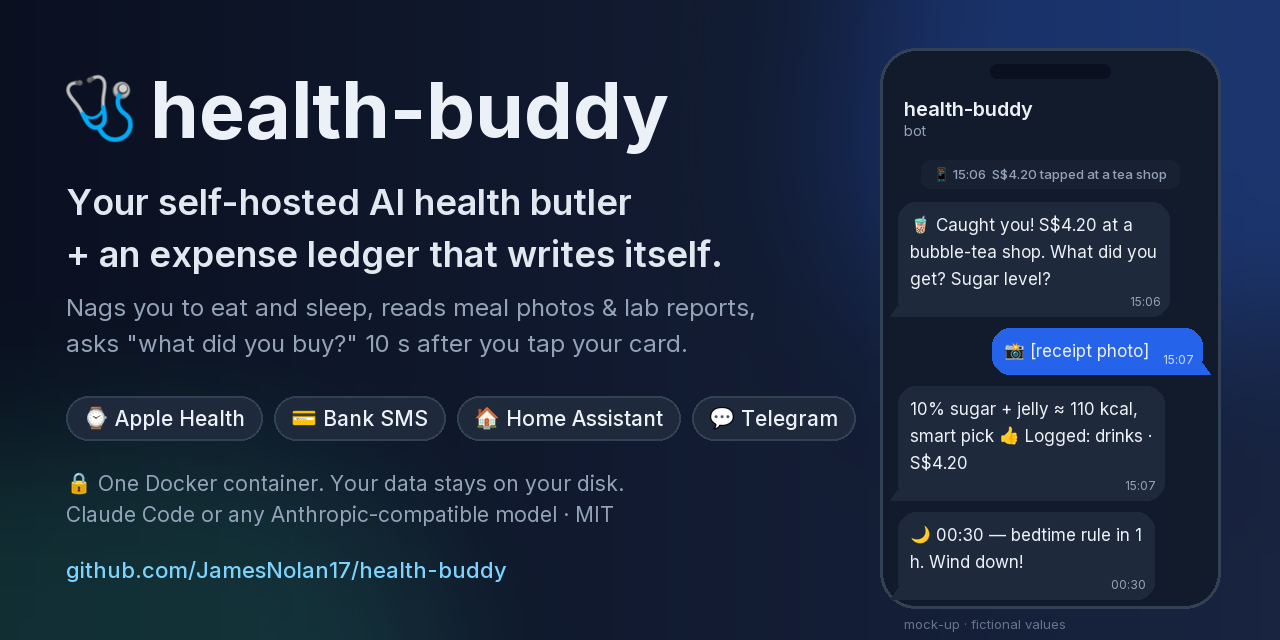
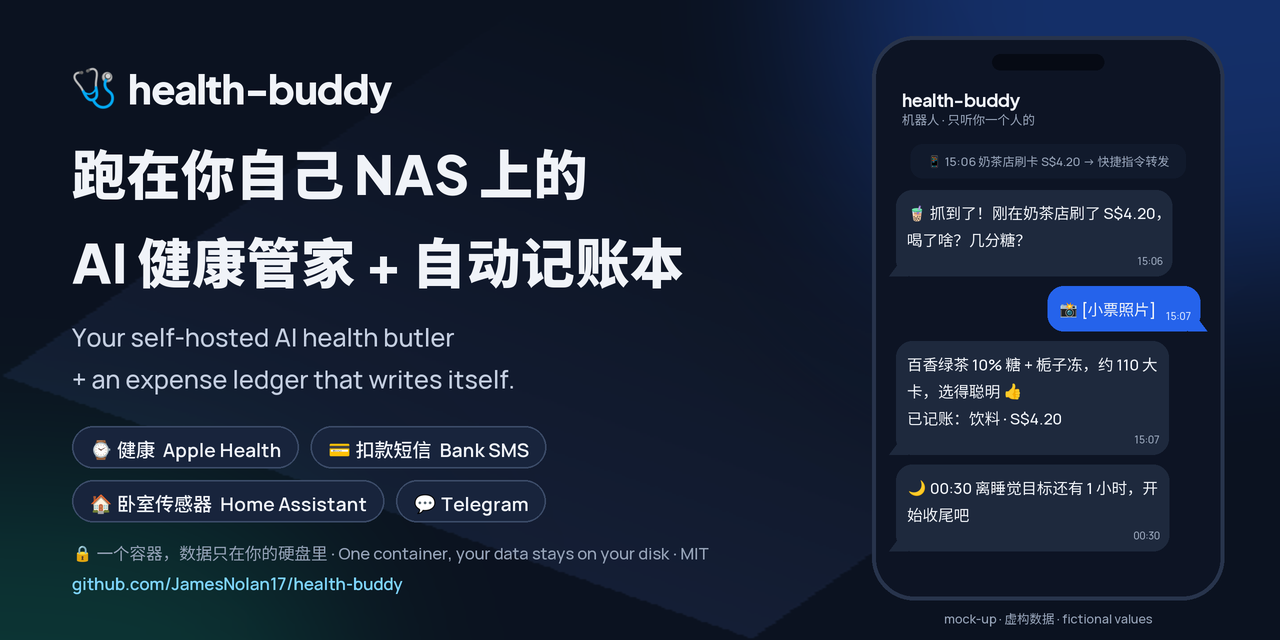
Redo visual assets (bilingual, better fonts); replace masked numbers with fictional values
- docs/social-preview.png: bilingual (Chinese headline + English line, bilingual
  keyword chips, Chinese phone mock), Noto Sans SC + Plus Jakarta Sans + Manrope,
  rendered at 2x and downscaled; labelled mock-up / fictional values
- docs/demo.zh.gif + docs/demo.en.gif replace docs/demo.gif; first frame already
  shows the SMS notification; READMEs point to the matching language
- docs/ASSETS.md lists fonts, emoji source and licenses (no font files in repo)
- README.md / README.en.md: every masked health/money/time value (6█, 20██-09,
  S██ …) replaced with a plausible fictional number; secrets stay placeholders

diff --git a/README.en.md b/README.en.md
@@ -15,7 +15,7 @@ Your data stays on your own disk, and it only listens to you.
 ![Telegram](https://img.shields.io/badge/chat-Telegram-26A5E4?logo=telegram&logoColor=white)
 ![Agent](https://img.shields.io/badge/agent-Claude%20Code%20%7C%20Anthropic--compatible%20models-111)
 
-<img src="docs/demo.gif" width="440" alt="Mock-up animation: 8 seconds after a card tap the bot asks what you bought; you send a receipt photo and it logs the calories and the expense">
+<img src="docs/demo.en.gif" width="440" alt="Mock-up animation: 8 seconds after a card tap the bot asks what you bought; you send a receipt photo and it logs the calories and the expense">
 
 <sub>Mock-up animation, not a real screenshot. Amounts and calories are fictional.</sub>
 
@@ -42,7 +42,7 @@ Under the hood it is **Claude Code (or any CLI agent) + a ~200-line, zero-depend
 | 🧋 15:06 | Card charged S$4.20 → within 10 s: "4.20 at a tea shop — what did you get? Sugar level?" |
 | 🤒 one day | "Resting HR +9 for two days and wrist temp is up — you may be getting sick. Sleep early tonight." |
 | 🌙 23:00 | "One hour to your bedtime goal." Ignore it? 23:30, 00:00 … until you say good night |
-| 📅 1st of month | "Last month: food S$5██, █ bubble teas S$3█, 3 fewer deliveries 👍" |
+| 📅 1st of month | "Last month: food S$560, 9 bubble teas S$38, 3 fewer deliveries 👍" |
 
 > These are the default schedule (`schedules.json`); one sentence in chat changes it.
 
@@ -165,7 +165,7 @@ First make the inbox reachable from your phone: set `INBOX_BIND` in `.env` to th
 - **Everything lives in `/data`** — back up one folder; move between an x86 NAS and an ARM VPS by copying it
 
 <details>
-<summary><b>📸 Seven real stories from the author's own health-buddy (numbers masked, translated — click to expand)</b></summary>
+<summary><b>📸 Seven real stories from the author's own health-buddy (numbers replaced with fictional values, translated — click to expand)</b></summary>
 
 **① Zero to working, guided by screenshots**
 
@@ -180,7 +180,7 @@ sequenceDiagram
     U->>H: [screenshot: URL filled in]
     H-->>U: ✅ URL is correct. Next the secret — hide the keyboard before the screenshot 😉
     U->>H: Uploading everything since I was born… 2%
-    H-->>U: 📬 ██0k records back to 20██. Building your personal baseline
+    H-->>U: 📬 480k records back to 2019. Building your personal baseline
 ```
 
 **② One lunch: nudge → photo → estimate → auto-bookkeeping**
@@ -197,7 +197,7 @@ sequenceDiagram
     H-->>U: 🍗 ≈600 kcal, 58 g protein — peel the charred skin to save 100
     U->>H: Ate 2/3 of the rice, one papadum left
     H-->>U: 📊 ≈1300 kcal this meal, 600 left for dinner
-    B->>H: A transaction of SGD ██.██ … at ████
+    B->>H: A transaction of SGD 18.50 … at FOOD COURT
     H-->>U: 💰 Matched to lunch. Logged — no need to tell me
 ```
 
@@ -221,7 +221,7 @@ sequenceDiagram
 ```mermaid
 flowchart LR
     A[Resting HR ≥ 30-day median + 6<br/>for 2+ days] --> B{Wrist temp up too?}
-    B -- yes --> C[🤒 likely sick<br/>20██-09, 20██-02, 20██-07]
+    B -- yes --> C[🤒 likely sick<br/>2023-09, 2024-02, 2025-07]
     B -- no --> D[Ask: were you travelling?]
     C --> E[Me: yes! fever all three times]
     D --> F[Me: that was a high-altitude trip<br/>→ marked as exception]
@@ -233,10 +233,10 @@ flowchart LR
 ```mermaid
 flowchart TB
     subgraph Uni["🎓 4 years of university (sliding)"]
-      a1[asleep 0:5█ → 2:█9]
-      a2[resting HR 6█ → 7█]
-      a3[HRV 3█ → 2█]
-      a4[stand hours 1█ → █]
+      a1[asleep 0:55 → 2:19]
+      a2[resting HR 62 → 71]
+      a3[HRV 38 → 27]
+      a4[stand hours 12 → 8]
     end
     subgraph After["💼 after graduating"]
       b1[steps, exercise ✅ fully recovered]
@@ -262,7 +262,7 @@ flowchart LR
 ```mermaid
 flowchart LR
     A[Me: itchy throat for years<br/>post-nasal drip, cough when AC is cold] --> B[Lab: inflammation markers normal]
-    A --> C[Home Assistant: bedroom humidity 7█%]
+    A --> C[Home Assistant: bedroom humidity 72%]
     C --> D[> 60 % is dust-mite heaven]
     B & D --> E[Suggest: see ENT for allergy tests, nasal rinse, mite control<br/>watch a few nights before buying a dehumidifier]
 ```

diff --git a/README.md b/README.md
@@ -15,7 +15,7 @@
 ![Telegram](https://img.shields.io/badge/chat-Telegram-26A5E4?logo=telegram&logoColor=white)
 ![Agent](https://img.shields.io/badge/agent-Claude%20Code%20%7C%20Anthropic--compatible%20models-111)
 
-<img src="docs/demo.gif" width="440" alt="示意动画：刷卡 8 秒后机器人来问喝了啥，发小票照片后自动记下热量和这笔账">
+<img src="docs/demo.zh.gif" width="440" alt="示意动画：刷卡 8 秒后机器人来问喝了啥，发小票照片后自动记下热量和这笔账">
 
 <sub>示意动画，不是真实截图；金额和热量都是虚构的。</sub>
 
@@ -42,7 +42,7 @@
 | 🧋 15:06 | 刷卡 S$4.20 → 10 秒内：“在奶茶店花了 4.2，喝了啥？几分糖？” |
 | 🤒 某天 | “静息心率连续两天高了 9 下，手腕温度也高，可能要感冒了，今晚早点睡” |
 | 🌙 23:00 | “离睡觉目标还有 1 小时。” 你不理它？23:30、00:00……直到你说“晚安” |
-| 📅 每月 1 号 | “上个月吃饭 S$5██，奶茶 █ 杯 S$3█，外卖比上月少 3 次 👍” |
+| 📅 每月 1 号 | “上个月吃饭 S$560，奶茶 9 杯 S$38，外卖比上月少 3 次 👍” |
 
 > 以上时间是默认时间表（`schedules.json`），在聊天里一句话就能让它改。
 
@@ -165,7 +165,7 @@ docker compose logs -f        # 看到 "health-buddy up" 就好了
 - **一切都在 `/data`**：备份这一个文件夹就够了；x86 NAS ↔ ARM VPS 直接拷过去
 
 <details>
-<summary><b>📸 作者和自己 health-buddy 的 7 个真实故事（关键数字已打码，点开看）</b></summary>
+<summary><b>📸 作者和自己 health-buddy 的 7 个真实故事（数字已改成虚构值，点开看）</b></summary>
 
 **① 从零到通：看截图，手把手带着设置**
 
@@ -180,7 +180,7 @@ sequenceDiagram
     U->>H: [截图：URL 填好了]
     H-->>U: ✅ 网址对了。下一步填密钥，截图前先把键盘收起来 😉
     U->>H: 我把从出生到现在的数据都传了，2%
-    H-->>U: 📬 收到 ██ 万条，从 20██ 年开始。先帮你建个人基线
+    H-->>U: 📬 收到 48 万条，从 2019 年开始。先帮你建个人基线
 ```
 
 **② 一顿午饭：催 → 拍 → 算 → 自动记账**
@@ -197,7 +197,7 @@ sequenceDiagram
     H-->>U: 🍗 约 600 kcal，蛋白 58g，焦皮撕掉能少 100
     U->>H: 饭吃了 2/3，薄脆剩 1 片
     H-->>U: 📊 这顿约 1300 kcal，晚饭还剩 600
-    B->>H: A transaction of SGD ██.██ … at ████
+    B->>H: A transaction of SGD 18.50 … at FOOD COURT
     H-->>U: 💰 对上午饭了，饭钱记好了，不用你报
 ```
 
@@ -221,7 +221,7 @@ sequenceDiagram
 ```mermaid
 flowchart LR
     A[静息心率比 30 天中位数高 ≥6<br/>连续 2 天以上] --> B{手腕温度也高？}
-    B -- 是 --> C[🤒 疑似生病<br/>20██-09、20██-02、20██-07]
+    B -- 是 --> C[🤒 疑似生病<br/>2023-09、2024-02、2025-07]
     B -- 否 --> D[问一句：出远门了？]
     C --> E[我：对！三次都发烧了]
     D --> F[我：那次是去高原玩<br/>→ 记成例外]
@@ -233,10 +233,10 @@ flowchart LR
 ```mermaid
 flowchart TB
     subgraph Uni["🎓 大学 4 年（越来越差）"]
-      a1[入睡 0:5█ → 2:█9]
-      a2[静息心率 6█ → 7█]
-      a3[HRV 3█ → 2█]
-      a4[站立小时 1█ → █]
+      a1[入睡 0:55 → 2:19]
+      a2[静息心率 62 → 71]
+      a3[HRV 38 → 27]
+      a4[站立小时 12 → 8]
     end
     subgraph After["💼 毕业后"]
       b1[步数、运动分钟 ✅ 全面翻盘]
@@ -262,7 +262,7 @@ flowchart LR
 ```mermaid
 flowchart LR
     A[我：嗓子痒好多年了<br/>鼻涕倒流，空调冷了就咳] --> B[体检：炎症指标正常]
-    A --> C[Home Assistant：卧室湿度 7█%]
+    A --> C[Home Assistant：卧室湿度 72%]
     C --> D[湿度 > 60% 尘螨最爱]
     B & D --> E[建议：去 ENT 查过敏原、洗鼻、防螨<br/>先观察几晚再决定买不买除湿机]
 ```

diff --git a/docs/ASSETS.md b/docs/ASSETS.md
@@ -1,0 +1,21 @@
+# docs/ 里的图片 / Visual assets
+
+所有图片都是**示意图（mock-up），不是真实截图**，里面的金额、热量、时间都是虚构的。
+All images are mock-ups, not real screenshots; every number in them is fictional.
+
+| 文件 | 用途 |
+|---|---|
+| `social-preview.png` | 1280×640，GitHub 仓库的 Social preview（Settings → Social preview 手动上传） |
+| `demo.zh.gif` | README.md 顶部的中文示意动画 |
+| `demo.en.gif` | README.en.md 顶部的英文示意动画 |
+
+图片用 Python Pillow 以 2 倍分辨率渲染后 LANCZOS 缩小。字体文件**不在仓库里**，只在生成时下载：
+
+| 字体 / 素材 | 用在哪 | 许可证 | 来源 |
+|---|---|---|---|
+| Noto Sans SC（可变字重） | 所有中文 | SIL Open Font License 1.1 | Google Fonts |
+| Plus Jakarta Sans（可变字重） | “health-buddy” 字标、英文标题 | SIL Open Font License 1.1 | Google Fonts |
+| Manrope（可变字重） | 英文正文、界面文字、数字 | SIL Open Font License 1.1 | Google Fonts |
+| Noto Color Emoji（Google 设计的 emoji 位图） | 图里的 emoji | Apache License 2.0 | 经 npm 包 `emoji-datasource-google`（包本身 MIT） |
+
+Telegram、Apple Health、Home Assistant 等名称仅用于说明兼容性，商标归各自所有者。
